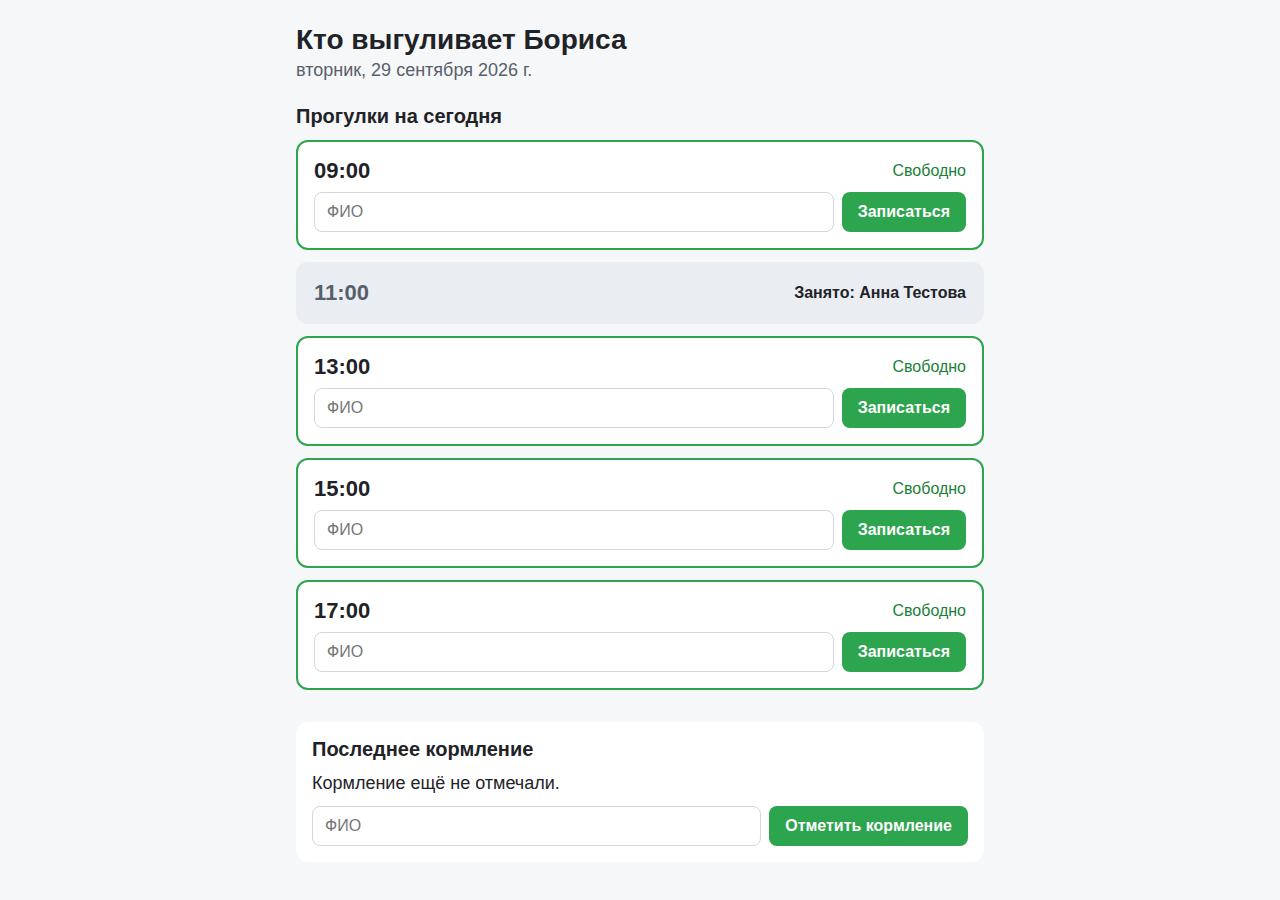
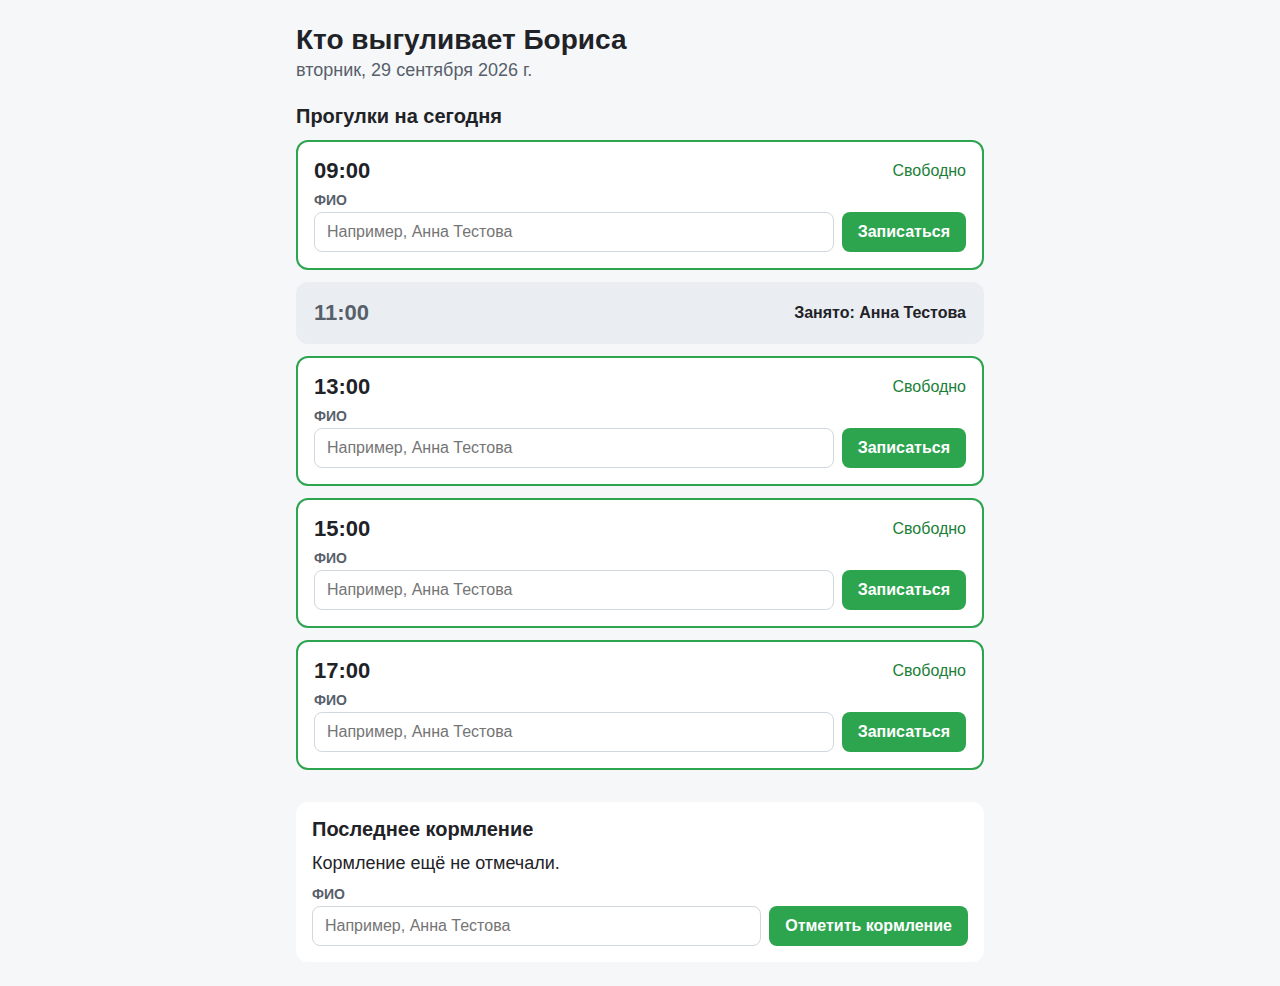
Доработки по ревью: PLAN, README, новые скриншоты и демо
Claude-Session: https://claude.ai/code/session_019AJB8BsfuicdDaDhWW8j6a

diff --git a/PLAN.md b/PLAN.md
@@ -60,6 +60,20 @@
 * Проверка: каждый пункт smoke-check наблюдался в приложении; скриншоты сделаны с фактически проверенных состояний; в репозитории нет секретов, закомментированного кода, пустых файлов и неиспользуемых переменных; `README.md` совпадает с тем, что реально запускается.
 * Результат проверки: smoke-check пройден на чистой базе в Chrome: 1) дата «вторник, 29 сентября 2026 г.» и пять свободных слотов; 2) «Анна Тестова» записалась на `09:00`, появилось «Вы записаны на 09:00.»; 3) во второй, не обновлённой вкладке «Илья Примеров» получил отказ «Слот 09:00 уже занят: Анна Тестова…», запись не изменилась; 4) после обновления страницы `09:00` по-прежнему за «Анна Тестова»; 5) отметка кормления «Илья Примеров» — карточка показала «29 сентября в 01:41 — Илья Примеров»; 6) на ширине 400 px поле и кнопка стоят друг под другом, горизонтальной прокрутки нет, запись «Илья Примеров» на `11:00` прошла. Материалы собраны в `docs/`, `README.md` обновлён.
 
+## Доработки по ревью 1
+
+* Статус: выполнен
+* Что делаем: все замечания ревьюера — обязательное и шесть пожеланий:
+  * назван следующий инженерный шаг и почему он первый (раздел ниже и `README.md`);
+  * запрос больше 10 000 байт получает ответ 413 «Слишком большой запрос.» вместо обрыва соединения, размер считается в байтах;
+  * POST-запросы не в JSON получают ответ 415 «Поддерживается только JSON.»;
+  * страница и API отдаются с `Cache-Control: no-store`;
+  * дата слотов считается по Москве, время кормления показывается по Москве с пометкой «МСК»;
+  * у полей ввода есть постоянная подпись «ФИО»;
+  * при Ctrl+C и сигнале остановки сервер закрывает соединения и базу.
+* Проверка: запросы к API на каждый случай; сервер в чужом часовом поясе; остановка сигналами; страница на ширинах 320–1280 px; главный сценарий заново; скриншоты и демо пересняты.
+* Результат проверки: 12 030 байт русского текста (6 030 символов) и 200 КБ — ответ 413, сервер продолжает работать; `text/plain` и запрос без типа — 415; `application/json; charset=utf-8` принимается; `Cache-Control: no-store` у страницы, скрипта и API. Сервер в поясе UTC+14, где уже 30 сентября, показывает московское 29 сентября; кормление показывается как «29 сентября в 20:35 МСК» при любом поясе. Ctrl+C и SIGTERM — «Сервер остановлен.», код выхода 0, служебных файлов базы не осталось. На ширинах 320, 360, 375, 414, 480, 768, 1024 и 1280 px горизонтальной прокрутки нет, подпись «ФИО» видна у всех полей, ошибок на странице нет. Скриншоты и демо пересняты на этой версии.
+
 ## Следующий инженерный шаг (вне этого проекта)
 
 * Статус: не начат

diff --git a/README.md b/README.md
@@ -18,7 +18,7 @@
 npm start
 ```
 
-Откройте `http://localhost:3000`. Порт можно поменять переменной окружения `PORT`. База хранится в файле `data/boris.sqlite` и создаётся при первом запуске; папка `data/` не попадает в репозиторий. Чтобы начать с чистого состояния, остановите сервер и удалите `data/boris.sqlite`.
+Откройте `http://localhost:3000`. Порт можно поменять переменной окружения `PORT`. Остановка — Ctrl+C: сервер перестаёт принимать запросы, закрывает базу и пишет «Сервер остановлен.». База хранится в файле `data/boris.sqlite` и создаётся при первом запуске; папка `data/` не попадает в репозиторий. Чтобы начать с чистого состояния, остановите сервер и удалите `data/boris.sqlite`.
 
 ## Главный сценарий
 
@@ -45,6 +45,10 @@ API:
 * `POST /api/bookings` с `{ "slotTime": "09:00", "name": "Анна Тестова" }` — запись; занятый слот — ответ 409;
 * `GET /api/feedings/last` — последнее кормление;
 * `POST /api/feedings` с `{ "name": "Илья Примеров" }` — отметить кормление.
+
+POST-запросы принимают только JSON (`Content-Type: application/json`), иначе ответ 415 «Поддерживается только JSON.». Тело запроса больше 10 000 байт получает ответ 413 «Слишком большой запрос.». Ответы сервера не кэшируются (`Cache-Control: no-store`), поэтому страница всегда показывает актуальные слоты.
+
+Дата слотов считается по московскому времени, независимо от часового пояса машины, на которой запущен сервер. Время кормления показывается всем по Москве с пометкой «МСК».
 
 Запись в слот выполняется одной операцией обновления, которая меняет только свободный слот, поэтому из одновременных запросов проходит ровно один.
 
